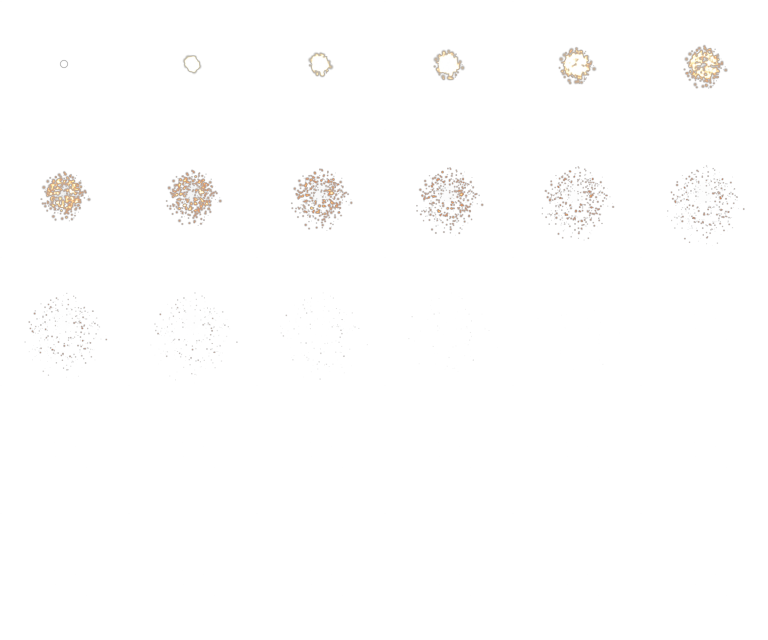
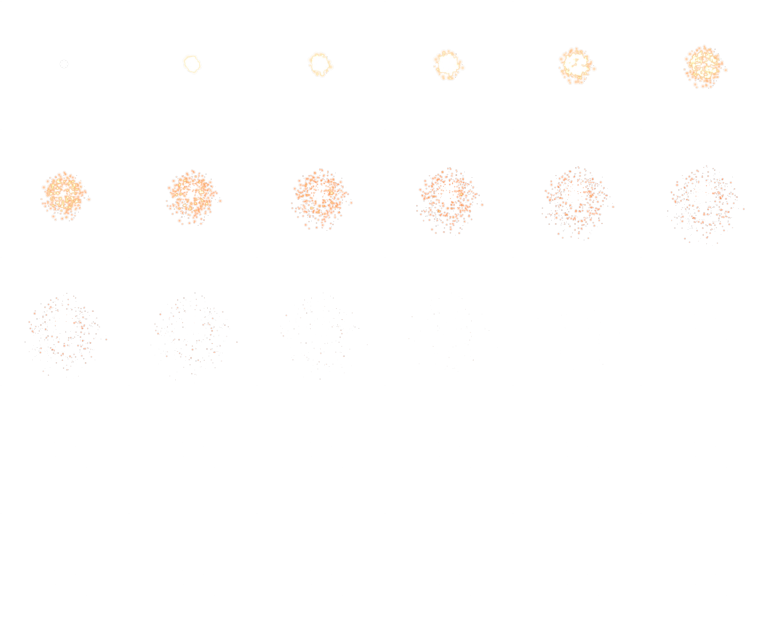
[ADD] renderer: impact bursts play the rendered flipbook
The impact effect was a radial gradient drawn to a canvas: 1051 pixels changed,
0.081% of the screen. The canonical EffectCraft render was sitting in the
repository since the asset pipeline landed, unused, because the integration kept
coming out invisible — and the reason was three mistakes stacked.

- **Premultiplied alpha.** The atlas stored RGB already multiplied by alpha, and
  three's additive blending multiplies by alpha again. A spark at 0.2 alpha
  landed at 0.04 and vanished. The atlas is packed straight now.
- **UV arithmetic.** Offsetting UVs by hand meant owning the flipY convention,
  and the frames came out on empty cells. Each frame is now its own texture with
  `offset` and `repeat`, so three owns the convention; the clones share one image
  source, so the sheet is still uploaded once.
- **Tinting by event.** Multiplying the white-hot render by the event colour
  turned a spark into a dull red dot. The sprite stays warm and only the fade
  moves.

- The pool is 24 quads with one material each; the burst is 12 frames because the
  render is spent by frame 12 of the atlas and the rest of the sheet is empty.
- `debugPin` lets a capture hold the burst at a fraction of its life, which is
  the only way to review an animation that a headless renderer runs at 3 fps.
- Three tests: the sheet is sliced into one texture per frame, one sprite appears
  per event and advances through the frames, and a repeated seq does not spawn a
  second one.

68 tests, coverage 68.75%.

diff --git a/packages/renderer/src/vfx.ts b/packages/renderer/src/vfx.ts
@@ -1,5 +1,5 @@
 /**
- * Impact visual effects: instanced particles, no external texture.
+ * Impact visual effects: physics sparks plus a rendered flipbook burst.
  *
  * Reads the same events as the audio (`sim.fx`), so what makes noise also
  * makes sparks. Everything in one InstancedMesh with additive blending: one
@@ -22,6 +22,7 @@ export interface FxEvent {
 
 interface Burst {
   count: number;
+  /** Scale of the flipbook burst, in metres. */
   life: number;
   speed: number;
   size: number;
@@ -31,15 +32,35 @@ interface Burst {
 }
 
 const BURSTS: Record<string, Burst> = {
-  hit: { count: 10, life: 0.36, speed: 6.0, size: 1.5, lift: 2.6, color: new THREE.Color(0xffd27a), spread: Math.PI },
-  melee: { count: 8, life: 0.28, speed: 5.0, size: 1.3, lift: 2.0, color: new THREE.Color(0xe8e2cc), spread: Math.PI },
-  death: { count: 20, life: 0.66, speed: 4.0, size: 2.4, lift: 3.6, color: new THREE.Color(0xb3402f), spread: Math.PI },
-  build: { count: 14, life: 0.85, speed: 2.6, size: 2.8, lift: 4.6, color: new THREE.Color(0xcfc0a8), spread: Math.PI * 0.6 },
-  noise: { count: 6, life: 0.55, speed: 2.4, size: 1.8, lift: 1.6, color: new THREE.Color(0xa9b2bc), spread: Math.PI },
-  shot: { count: 4, life: 0.18, speed: 7.0, size: 1.1, lift: 1.0, color: new THREE.Color(0xfff0c0), spread: 0.6 },
+  hit: { count: 10, life: 0.52, speed: 6.0, size: 1.5, lift: 2.6, color: new THREE.Color(0xffd27a), spread: Math.PI, sprite: 4.2 },
+  melee: { count: 8, life: 0.42, speed: 5.0, size: 1.3, lift: 2.0, color: new THREE.Color(0xe8e2cc), spread: Math.PI, sprite: 3.2 },
+  death: { count: 20, life: 0.95, speed: 4.0, size: 2.4, lift: 3.6, color: new THREE.Color(0xb3402f), spread: Math.PI, sprite: 6.4 },
+  build: { count: 14, life: 1.15, speed: 2.6, size: 2.8, lift: 4.6, color: new THREE.Color(0xcfc0a8), spread: Math.PI * 0.6, sprite: 5.2 },
+  noise: { count: 6, life: 0.8, speed: 2.4, size: 1.8, lift: 1.6, color: new THREE.Color(0xa9b2bc), spread: Math.PI, sprite: 3.6 },
+  shot: { count: 4, life: 0.34, speed: 7.0, size: 1.1, lift: 1.0, color: new THREE.Color(0xfff0c0), spread: 0.6, sprite: 2.0 },
 };
 
 const MAX_PARTICLES = 720;
+
+/** Grid of the flipbook atlas, and how many of its frames carry the effect. */
+const ATLAS_COLS = 6;
+const ATLAS_ROWS = 5;
+// The render is spent by frame 12 of the atlas: the rest of the sheet is empty,
+// and playing it would make the burst vanish halfway through its life.
+const ATLAS_ACTIVE = 12;
+const MAX_SPRITES = 24;
+
+interface Sprite {
+  x: number;
+  y: number;
+  z: number;
+  age: number;
+  life: number;
+  size: number;
+  r: number;
+  g: number;
+  b: number;
+}
 
 /** Textura de faisca gerada em canvas: um degrade radial, sem arquivo. */
 function sparkTexture(): THREE.Texture | null {
@@ -78,6 +99,16 @@ interface Particle {
 
 export class VfxSystem {
   readonly mesh: THREE.InstancedMesh;
+  /**
+   * The flipbook bursts: a pool of quads, each one swapping in the geometry that
+   * carries its atlas frame. Baking the UVs into a geometry per frame avoids a
+   * custom shader, which is one less thing that can fail silently on a driver.
+   */
+  private pool: THREE.Mesh[] = [];
+  private frameTextures: THREE.Texture[] = [];
+  private bursts: Sprite[] = [];
+  private pin: number | null = null;
+  private readonly sceneRef: THREE.Scene;
   private readonly particles: Particle[] = [];
   private readonly cameraQuat = new THREE.Quaternion();
   private readonly matrix = new THREE.Matrix4();
@@ -87,7 +118,8 @@ export class VfxSystem {
   private lastSeq = 0;
   private rng = 0x2f6e2b1;
 
-  constructor(scene: THREE.Scene, max = MAX_PARTICLES) {
+  constructor(scene: THREE.Scene, max = MAX_PARTICLES, atlas: THREE.Texture | null = null) {
+    this.sceneRef = scene;
     const geo = new THREE.PlaneGeometry(1, 1);
     const tex = sparkTexture();
     const mat = new THREE.MeshBasicMaterial({
@@ -103,6 +135,49 @@ export class VfxSystem {
     this.mesh.count = 0;
     this.mesh.frustumCulled = false;
     scene.add(this.mesh);
+    if (atlas) this.setAtlas(atlas);
+  }
+
+  /**
+   * Gives the system its flipbook. Textures arrive after the first frame, so the
+   * pool is built lazily and the atlas can also be handed over later.
+   */
+  /**
+   * Gives the system its flipbook. The atlas is sliced into one texture per
+   * frame with `offset` and `repeat`: three then owns the UV convention, so
+   * there is no flipY arithmetic to get wrong, and the clones share one image
+   * source, so the atlas is uploaded to the GPU once.
+   */
+  setAtlas(atlas: THREE.Texture | null): void {
+    if (!atlas || this.pool.length > 0) return;
+    atlas.colorSpace = THREE.SRGBColorSpace;
+    atlas.needsUpdate = true;
+    for (let f = 0; f < ATLAS_ACTIVE; f++) {
+      const cell = atlas.clone();
+      cell.repeat.set(1 / ATLAS_COLS, 1 / ATLAS_ROWS);
+      cell.offset.set((f % ATLAS_COLS) / ATLAS_COLS, 1 - (Math.floor(f / ATLAS_COLS) + 1) / ATLAS_ROWS);
+      cell.needsUpdate = true;
+      this.frameTextures.push(cell);
+    }
+    for (let i = 0; i < MAX_SPRITES; i++) {
+      const mat = new THREE.MeshBasicMaterial({
+        map: this.frameTextures[0],
+        transparent: true,
+        blending: THREE.AdditiveBlending,
+        depthWrite: false,
+        side: THREE.DoubleSide,
+      });
+      const mesh = new THREE.Mesh(new THREE.PlaneGeometry(1, 1), mat);
+      mesh.visible = false;
+      mesh.frustumCulled = false;
+      this.pool.push(mesh);
+      this.sceneRef.add(mesh);
+    }
+  }
+
+  /** Test hook: pin the burst at a fraction of its life (null resumes). */
+  debugPin(fraction: number | null): void {
+    this.pin = fraction;
   }
 
   /** Quantas particulas estao vivas agora (util para teste e diagnostico). */
@@ -117,6 +192,19 @@ export class VfxSystem {
       this.lastSeq = fx.seq;
       const burst = BURSTS[fx.type];
       if (!burst) continue;
+      if (this.pool.length > 0 && this.bursts.length < MAX_SPRITES) {
+        this.bursts.push({
+          x: fx.x,
+          y: 1.05,
+          z: fx.y,
+          age: 0,
+          life: burst.life,
+          size: burst.sprite,
+          r: burst.color.r,
+          g: burst.color.g,
+          b: burst.color.b,
+        });
+      }
       for (let i = 0; i < burst.count; i++) {
         if (this.particles.length >= MAX_PARTICLES) break;
         const angle = (this.next() - 0.5) * 2 * Math.PI;
@@ -172,6 +260,37 @@ export class VfxSystem {
     this.mesh.count = w;
     this.mesh.instanceMatrix.needsUpdate = true;
     if (this.mesh.instanceColor) this.mesh.instanceColor.needsUpdate = true;
+
+    for (const mesh of this.pool) mesh.visible = false;
+    let sw = 0;
+    for (const b of this.bursts) {
+      b.age = this.pin === null ? b.age + dt : b.life * this.pin;
+      if (b.age >= b.life) continue;
+      const mesh = this.pool[sw];
+      if (!mesh) break;
+      const t = b.age / b.life;
+      mesh.visible = true;
+      const mat = mesh.material as THREE.MeshBasicMaterial;
+      const frame = this.frameTextures[Math.min(ATLAS_ACTIVE - 1, Math.floor(t * ATLAS_ACTIVE))];
+      if (mat.map !== frame) {
+        mat.map = frame;
+        mat.needsUpdate = true;
+      }
+      this.posVec.set(b.x, b.y + t * 0.4, b.z);
+      mesh.position.copy(this.posVec);
+      mesh.quaternion.copy(this.cameraQuat);
+      mesh.scale.setScalar(b.size * (0.6 + t * 1.1));
+      // The render ends white-hot and dies out; the tint carries the event and
+      // the additive blend does the fade.
+      const fade = t < 0.7 ? 1 : 1 - (t - 0.7) / 0.3;
+      // The atlas carries its own white-hot colour; tinting it with the event
+      // colour turned a spark into a dull red dot, so the sprite stays warm and
+      // only the fade moves.
+      mat.color.setRGB(1.0 * fade, 0.94 * fade, 0.82 * fade);
+      this.bursts[sw] = b;
+      sw++;
+    }
+    this.bursts.length = sw;
   }
 
   /** Gerador barato e deterministico (mesma sequencia em todo cliente). */

diff --git a/packages/renderer/tests/vfx.test.ts b/packages/renderer/tests/vfx.test.ts
@@ -61,4 +61,53 @@ describe("efeitos visuais", () => {
     vfx.emit(many);
     expect(vfx.active).toBeLessThanOrEqual(720);
   });
+
+  describe("flipbook do estouro", () => {
+    it("constroi um quadro por celula do atlas e um pool escondido", () => {
+      const { scene } = system();
+      const vfx = new VfxSystem(scene, undefined, new THREE.Texture());
+      expect(vfx.pool.length).toBeGreaterThan(0);
+      expect(vfx.pool.every((m) => m.visible === false)).toBe(true);
+      // Each frame texture owns a sixth by a fifth of the sheet.
+      const first = (vfx.pool[0].material as THREE.MeshBasicMaterial).map as THREE.Texture;
+      expect(first.repeat.x).toBeCloseTo(1 / 6, 5);
+      expect(first.repeat.y).toBeCloseTo(1 / 5, 5);
+      expect(first.offset.x).toBeCloseTo(0, 5);
+      expect(first.offset.y).toBeCloseTo(1 - 1 / 5, 5);
+    });
+
+    it("mostra um estouro por evento e o apaga quando a vida acaba", () => {
+      const { scene, camera } = system();
+      const vfx = new VfxSystem(scene, undefined, new THREE.Texture());
+      vfx.emit([fx(1, "death", 0, 0)]);
+      expect(vfx.pool.filter((m) => m.visible).length).toBe(0);
+
+      vfx.update(0.016, camera);
+      expect(vfx.pool.filter((m) => m.visible).length).toBe(1);
+
+      // Pinned to the start of its life, the frame is the first cell.
+      vfx.debugPin(0);
+      vfx.update(0.016, camera);
+      const mat = vfx.pool[0].material as THREE.MeshBasicMaterial;
+      expect(mat.map!.offset.x).toBeCloseTo(0, 5);
+
+      // Pinned near the end, it has moved on to a later cell.
+      vfx.debugPin(0.9);
+      vfx.update(0.016, camera);
+      expect(mat.map!.offset.x).toBeGreaterThan(0);
+
+      // Unpinned and run past its life, it disappears.
+      vfx.debugPin(null);
+      for (let i = 0; i < 200; i++) vfx.update(0.05, camera);
+      expect(vfx.pool.filter((m) => m.visible).length).toBe(0);
+    });
+
+    it("nao ganha estouro repetido do mesmo evento", () => {
+      const { scene, camera } = system();
+      const vfx = new VfxSystem(scene, undefined, new THREE.Texture());
+      vfx.emit([fx(7, "death", 0, 0), fx(7, "death", 0, 0)]);
+      vfx.update(0.016, camera);
+      expect(vfx.pool.filter((m) => m.visible).length).toBe(1);
+    });
+  });
 });

diff --git a/tests/e2e/burst-shot.spec.ts b/tests/e2e/burst-shot.spec.ts
@@ -1,0 +1,45 @@
+import { expect, test } from "@playwright/test";
+
+type Win = { __afterfall: any };
+
+/**
+ * Captures the impact burst at four points of its life, pinned so the headless
+ * renderer's frame rate cannot race the animation.
+ *
+ * Opt-in: `BURST_SHOT=1 pnpm test:e2e tests/e2e/burst-shot.spec.ts`.
+ */
+test.skip(!process.env.BURST_SHOT, "set BURST_SHOT=1 to capture the burst");
+
+test("captures the burst across its life", async ({ page }) => {
+  test.setTimeout(180_000);
+  await page.goto("/");
+  await page.getByTestId("new-game").click();
+  await page.getByTestId("seed").fill("4242");
+  await page.getByTestId("start").click();
+  await expect(page.getByTestId("help")).toBeVisible({ timeout: 15_000 });
+  await page.keyboard.press("Escape");
+  await expect(page.getByTestId("choose-base")).toBeVisible();
+
+  await page.evaluate(() => {
+    const g = (window as unknown as Win).__afterfall;
+    const at = g.renderer.groundPoint(0, 0) ?? { x: 0, y: 0 };
+    g.renderer.rts.goalDistance = 70;
+    g.renderer.rts.distance = 70;
+    g.sim.emitFx("death", at.x, at.y);
+  });
+  await page.waitForTimeout(800);
+
+  const frames = [0.1, 0.3, 0.55, 0.8];
+  for (const [i, fraction] of frames.entries()) {
+    await page.evaluate((f) => (window as unknown as Win).__afterfall.renderer.vfx.debugPin(f), fraction);
+    await page.waitForTimeout(700);
+    await page.screenshot({ path: `/tmp/burst_${i}.png` });
+  }
+
+  const state = await page.evaluate(() => {
+    const v = (window as unknown as Win).__afterfall.renderer.vfx;
+    return { pool: v.pool.length, visible: v.pool.filter((m: { visible: boolean }) => m.visible).length };
+  });
+  console.log("BURST", JSON.stringify(state));
+  expect(state.pool).toBeGreaterThan(0);
+});

diff --git a/tools/make-spark-atlas.ts b/tools/make-spark-atlas.ts
@@ -3,8 +3,13 @@
  *
  * The source is the canonical EffectCraft render (`hit_sparks_final`): a 30
  * frame, 400x400 WebM plus its alpha pass, because the video stream carries no
- * alpha of its own. Decoding stays in ffmpeg; this script only resamples, packs
- * and premultiplies.
+ * alpha of its own. Decoding stays in ffmpeg; this script only resamples and
+ * packs.
+ *
+ * The RGB is stored STRAIGHT, not premultiplied: the effects blend additively,
+ * and three's additive blend already multiplies the source by alpha. Storing it
+ * premultiplied squares the alpha, and a 0.2 alpha spark lands at 0.04 and
+ * disappears — which is exactly what the first integration did.
  *
  * Usage (needs ffmpeg on PATH):
  *   ffmpeg -i hit_sparks_final.webm -pix_fmt rgb24 -f rawvideo /tmp/final_rgb.raw
@@ -72,11 +77,9 @@ for (let f = 0; f < FRAMES; f++) {
       }
       const al = a / n / 255;
       const di = ((oy + cy) * W + ox + cx) * 4;
-      // Premultiplied, because the effects blend additively: colour scaled by
-      // alpha is exactly what an additive pass wants and it kills the halo.
-      out[di] = Math.round((r / n) * al);
-      out[di + 1] = Math.round((g / n) * al);
-      out[di + 2] = Math.round((b / n) * al);
+      out[di] = Math.round(r / n);
+      out[di + 1] = Math.round(g / n);
+      out[di + 2] = Math.round(b / n);
       out[di + 3] = Math.round(al * 255);
     }
   }

diff --git a/packages/renderer/src/textures.ts b/packages/renderer/src/textures.ts
@@ -7,11 +7,13 @@ export interface ArtTextures {
   asphalt: THREE.Texture | null;
   grass: THREE.Texture | null;
   rust: THREE.Texture | null;
+  /** Flipbook of the impact burst, packed by `tools/make-spark-atlas.ts`. */
+  spark_atlas: THREE.Texture | null;
 }
 
 export type ArtName = keyof ArtTextures;
 
-const NAMES: ArtName[] = ["concrete", "asphalt", "grass", "rust"];
+const NAMES: ArtName[] = ["concrete", "asphalt", "grass", "rust", "spark_atlas"];
 
 /**
  * Loads the surface maps without blocking the first frame: the materials are
@@ -19,7 +21,7 @@ const NAMES: ArtName[] = ["concrete", "asphalt", "grass", "rust"];
  * file keeps the flat colour, so art is never a hard dependency of booting.
  */
 export function loadArtTextures(baseUrl: string, onReady: (art: ArtTextures) => void): ArtTextures {
-  const art: ArtTextures = { concrete: null, asphalt: null, grass: null, rust: null };
+  const art: ArtTextures = { concrete: null, asphalt: null, grass: null, rust: null, spark_atlas: null };
   const loader = new THREE.TextureLoader();
   for (const name of NAMES) {
     loader.load(

diff --git a/packages/renderer/src/GameRenderer.ts b/packages/renderer/src/GameRenderer.ts
@@ -185,6 +185,7 @@ export class GameRenderer {
       set(g.parks, art.grass);
     }
     if (this.buildings) this.buildings.setMap(art.concrete);
+    this.vfx?.setAtlas(art.spark_atlas);
   }
 
   private groundMats: GroundMaterials | null = null;
@@ -321,7 +322,7 @@ export class GameRenderer {
     this.scene.add(this.tracers);
 
     this.windowMat = new THREE.MeshBasicMaterial({ vertexColors: true, transparent: true, opacity: 0 });
-    this.vfx = new VfxSystem(this.scene);
+    this.vfx = new VfxSystem(this.scene, undefined, this.art.spark_atlas);
   }
 
   private instanced(geo: THREE.BufferGeometry, mat: THREE.Material, count: number, shadows: boolean): THREE.InstancedMesh {
